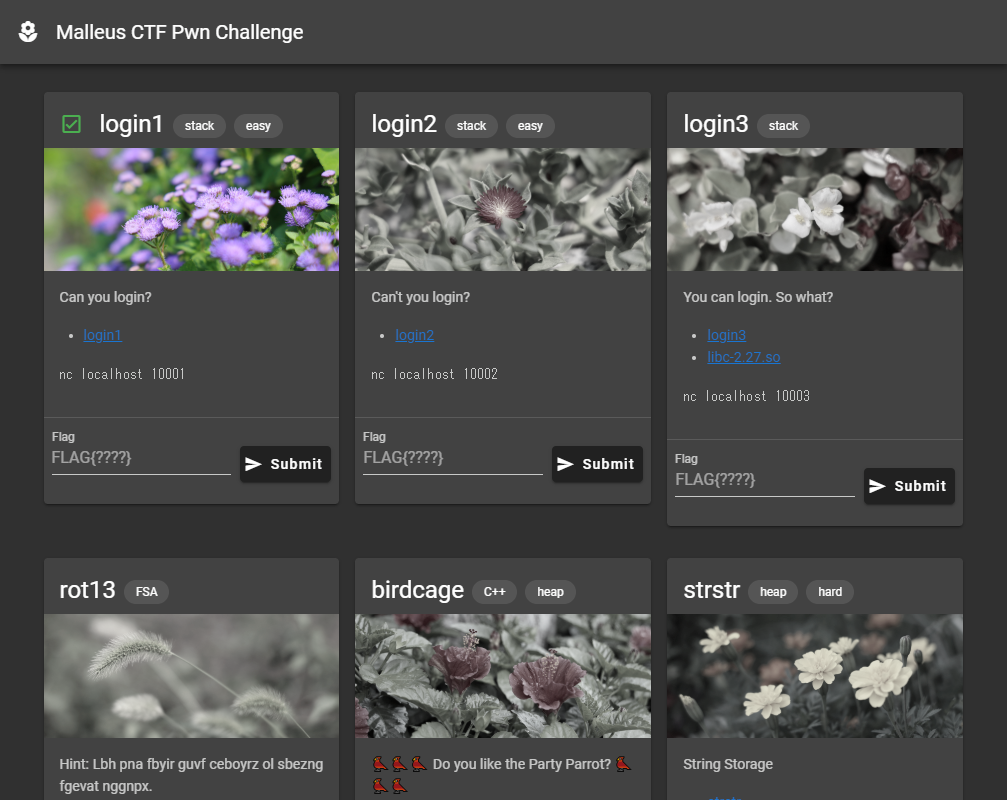
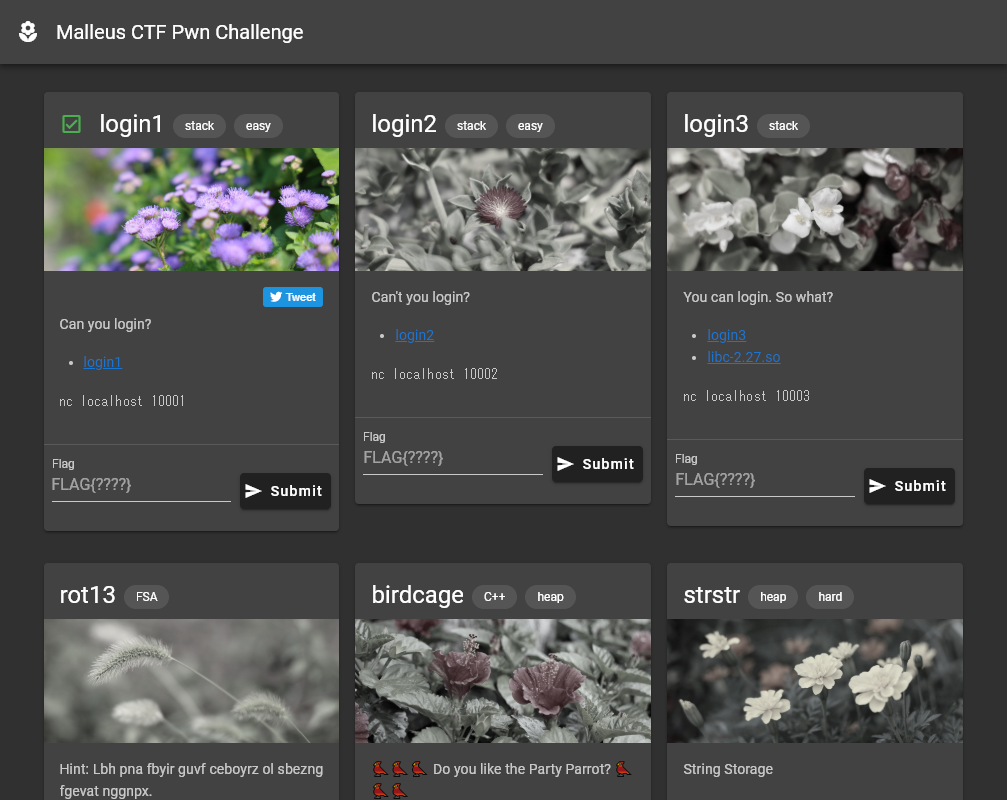
スコアサーバーを更新

diff --git a/score/_nuxt/b72d517e81cb8490b42c.js b/score/_nuxt/b72d517e81cb8490b42c.js
@@ -1,0 +1,1 @@
+(window.webpackJsonp=window.webpackJsonp||[]).push([[2],{234:function(t,e,r){var content=r(238);"string"==typeof content&&(content=[[t.i,content,""]]),content.locals&&(t.exports=content.locals);(0,r(6).default)("55ecb5ef",content,!0,{sourceMap:!1})},237:function(t,e,r){"use strict";var n=r(234);r.n(n).a},238:function(t,e,r){(t.exports=r(5)(!1)).push([t.i,".v-btn{text-transform:none}",""])},258:function(t,e,r){"use strict";r.r(e);r(88),r(40),r(41);var n=r(235),o=r.n(n);function l(){var t=document.getElementById("id");t&&t.remove();var s=document.createElement("script");s.id="twitter-wjs",s.src="https://platform.twitter.com/widgets.js",document.body.appendChild(s);var e=window.twttr||{};e._e=[],e.ready=function(t){e._e.push(t)},window.twttr=e}var c={data:function(){return{problems:[]}},created:function(){var t=this;fetch("/files/problem.json").then(function(t){return t.json()}).then(function(data){var e=JSON.parse(localStorage.ctfpwn||"{}"),r=!0,n=!1,c=void 0;try{for(var d,v=data.problems[Symbol.iterator]();!(r=(d=v.next()).done);r=!0){var m=d.value;m.input="",m.submitting=!1,m.solved=!1,m.inputSuccess="",m.inputError="";var f=e[m.title];f&&m.flag==o()(f)&&(m.solved=!0)}}catch(t){n=!0,c=t}finally{try{r||null==v.return||v.return()}finally{if(n)throw c}}t.problems=data.problems,t.congrats=data.congrats,l()})},methods:{submit:function(t){t.processing||(t.processing=!0,t.submitting=!0,setTimeout(function(){if(t.submitting=!1,t.flag==o()(t.input)){t.solved=!0,t.inputSuccess="correct";var e=JSON.parse(localStorage.ctfpwn||"{}");e[t.title]=t.input,localStorage.ctfpwn=JSON.stringify(e),l()}else t.inputError="wrong";setTimeout(function(){t.input="",t.inputSuccess="",t.inputError="",t.processing=!1},3e3)},1e3))},getTweetURL:function(text){return"https://twitter.com/intent/tweet?text="+encodeURIComponent(text)+"&url="+encodeURIComponent("https://sanya.sweetduet.info/ctfpwn/")+"&hashtags="+encodeURIComponent("MalleusCTFPwn")}},computed:{cleared:function(){return this.problems.every(function(t){return t.solved})}}},d=(r(237),r(33)),v=r(63),m=r.n(v),f=r(225),w=r(82),_=r(24),h=r(254),y=r(227),x=r(255),C=r(214),S=r(121),V=r(256),T=r(81),j=r(257),component=Object(d.a)(c,function(){var t=this,e=t.$createElement,r=t._self._c||e;return 0==t.problems.length?r("div",[r("v-progress-circular",{attrs:{color:"primary",size:"128",indeterminate:""}})],1):r("div",[t.cleared?r("v-layout",{attrs:{"justify-center":""}},[r("v-img",{staticClass:"my-4",attrs:{src:t.congrats,"max-width":"640"}})],1):t._e(),t._v(" "),t.cleared?r("v-layout",{attrs:{"justify-center":""}},[r("div",{staticClass:"text-right"},[r("a",{staticClass:"twitter-share-button",attrs:{href:t.getTweetURL("Solved all problems!!!"),"data-size":"large"}},[t._v("Tweet")])])]):t._e(),t._v(" "),r("v-layout",{attrs:{wrap:""}},t._l(t.problems,function(e,n){return r("v-flex",{key:n,attrs:{xs12:"",sm6:"",md4:"",lg3:"",xl2:""}},[r("v-card",{staticClass:"mx-2 my-4"},[r("v-card-title",[e.solved?r("v-icon",{attrs:{color:"green"}},[t._v("mdi-check-box-outline")]):t._e(),t._v(" "),e.solved?r("span",{staticClass:"mx-2"}):t._e(),t._v("\n          "+t._s(e.title)+"\n          "),t._l(e.genre,function(g){return r("div",[r("span",{staticClass:"mx-1"}),t._v(" "),r("v-chip",{attrs:{small:""}},[t._v(t._s(g))])],1)})],2),t._v(" "),r("v-img",{style:{filter:e.solved?"":"grayscale(90%)"},attrs:{src:e.image}}),t._v(" "),r("v-card-text",[e.solved?r("div",{staticClass:"text-right"},[r("a",{staticClass:"twitter-share-button",attrs:{href:t.getTweetURL("Solved "+e.title+"!")}},[t._v("Tweet")])]):t._e(),t._v(" "),r("div",{domProps:{innerHTML:t._s(e.description)}})]),t._v(" "),r("v-divider"),t._v(" "),r("v-card-actions",[r("form",{on:{submit:function(r){return r.preventDefault(),t.submit(e)}}},[r("v-text-field",{attrs:{label:"Flag",placeholder:"FLAG{????}",disabled:e.submitting,"success-messages":e.inputSuccess,"error-messages":e.inputError},scopedSlots:t._u([{key:"append-outer",fn:function(){return[r("v-btn",{attrs:{type:"submit",loading:e.submitting}},[r("v-icon",{staticStyle:{"font-size":"18px"},attrs:{left:""}},[t._v("mdi-send")]),t._v("\n                  Submit\n                ")],1)]},proxy:!0}],null,!0),model:{value:e.input,callback:function(r){t.$set(e,"input","string"==typeof r?r.trim():r)},expression:"problem.input"}})],1)])],1)],1)}),1)],1)},[],!1,null,null,null);e.default=component.exports;m()(component,{VBtn:f.a,VCard:w.a,VCardActions:_.a,VCardText:_.b,VCardTitle:_.c,VChip:h.a,VDivider:y.a,VFlex:x.a,VIcon:C.a,VImg:S.a,VLayout:V.a,VProgressCircular:T.a,VTextField:j.a})}}]);

diff --git a/score/200.html b/score/200.html
@@ -1,9 +1,9 @@
 <!doctype html>
 <html data-n-head="">
   <head data-n-head="">
-    <title data-n-head="true">Malleus CTF Pwn Challenge</title><meta data-n-head="true" charset="utf-8"><meta data-n-head="true" name="viewport" content="width=device-width,initial-scale=1"><meta data-n-head="true" data-hid="description" name="description" content="Malleus CTF Pwn Practice"><link data-n-head="true" rel="icon" type="image/png" href="/favicon.png"><link data-n-head="true" rel="stylesheet" type="text/css" href="https://fonts.googleapis.com/css?family=Roboto:100,300,400,500,700,900&display=swap"><link data-n-head="true" rel="stylesheet" type="text/css" href="https://cdn.jsdelivr.net/npm/@mdi/font@latest/css/materialdesignicons.min.css"><link rel="preload" href="/_nuxt/3b0dbae0906dbce393a3.js" as="script"><link rel="preload" href="/_nuxt/55887cb41fd3ed167d51.js" as="script"><link rel="preload" href="/_nuxt/f29409c517db4eae3ca0.js" as="script"><link rel="preload" href="/_nuxt/15f8e969a9d723eca27c.js" as="script">
+    <title data-n-head="true">Malleus CTF Pwn Challenge</title><meta data-n-head="true" charset="utf-8"><meta data-n-head="true" name="viewport" content="width=device-width,initial-scale=1"><meta data-n-head="true" data-hid="description" name="description" content="Malleus CTF Pwn Practice"><link data-n-head="true" rel="icon" type="image/png" href="/favicon.png"><link data-n-head="true" rel="stylesheet" type="text/css" href="https://fonts.googleapis.com/css?family=Roboto:100,300,400,500,700,900&display=swap"><link data-n-head="true" rel="stylesheet" type="text/css" href="https://cdn.jsdelivr.net/npm/@mdi/font@latest/css/materialdesignicons.min.css"><link rel="preload" href="/_nuxt/a349849191905470efad.js" as="script"><link rel="preload" href="/_nuxt/55887cb41fd3ed167d51.js" as="script"><link rel="preload" href="/_nuxt/f29409c517db4eae3ca0.js" as="script"><link rel="preload" href="/_nuxt/15f8e969a9d723eca27c.js" as="script">
   </head>
   <body data-n-head="">
     <div id="__nuxt"><style>#nuxt-loading{visibility:hidden;opacity:0;position:absolute;left:0;right:0;top:0;bottom:0;display:flex;justify-content:center;align-items:center;flex-direction:column;animation:nuxtLoadingIn 10s ease;-webkit-animation:nuxtLoadingIn 10s ease;animation-fill-mode:forwards;overflow:hidden}@keyframes nuxtLoadingIn{0%{visibility:hidden;opacity:0}20%{visibility:visible;opacity:0}100%{visibility:visible;opacity:1}}@-webkit-keyframes nuxtLoadingIn{0%{visibility:hidden;opacity:0}20%{visibility:visible;opacity:0}100%{visibility:visible;opacity:1}}#nuxt-loading>div,#nuxt-loading>div:after{border-radius:50%;width:5rem;height:5rem}#nuxt-loading>div{font-size:10px;position:relative;text-indent:-9999em;border:.5rem solid #f5f5f5;border-left:.5rem solid #fff;-webkit-transform:translateZ(0);-ms-transform:translateZ(0);transform:translateZ(0);-webkit-animation:nuxtLoading 1.1s infinite linear;animation:nuxtLoading 1.1s infinite linear}#nuxt-loading.error>div{border-left:.5rem solid #ff4500;animation-duration:5s}@-webkit-keyframes nuxtLoading{0%{-webkit-transform:rotate(0);transform:rotate(0)}100%{-webkit-transform:rotate(360deg);transform:rotate(360deg)}}@keyframes nuxtLoading{0%{-webkit-transform:rotate(0);transform:rotate(0)}100%{-webkit-transform:rotate(360deg);transform:rotate(360deg)}}</style><script>window.addEventListener("error",function(){var e=document.getElementById("nuxt-loading");e&&(e.className+=" error")})</script><div id="nuxt-loading" aria-live="polite" role="status"><div>Loading...</div></div></div>
-  <script type="text/javascript" src="/_nuxt/3b0dbae0906dbce393a3.js"></script><script type="text/javascript" src="/_nuxt/55887cb41fd3ed167d51.js"></script><script type="text/javascript" src="/_nuxt/f29409c517db4eae3ca0.js"></script><script type="text/javascript" src="/_nuxt/15f8e969a9d723eca27c.js"></script></body>
+  <script type="text/javascript" src="/_nuxt/a349849191905470efad.js"></script><script type="text/javascript" src="/_nuxt/55887cb41fd3ed167d51.js"></script><script type="text/javascript" src="/_nuxt/f29409c517db4eae3ca0.js"></script><script type="text/javascript" src="/_nuxt/15f8e969a9d723eca27c.js"></script></body>
 </html>

diff --git a/score/index.html b/score/index.html
@@ -1,9 +1,9 @@
 <!doctype html>
 <html data-n-head="">
   <head data-n-head="">
-    <title data-n-head="true">Malleus CTF Pwn Challenge</title><meta data-n-head="true" charset="utf-8"><meta data-n-head="true" name="viewport" content="width=device-width,initial-scale=1"><meta data-n-head="true" data-hid="description" name="description" content="Malleus CTF Pwn Practice"><link data-n-head="true" rel="icon" type="image/png" href="/favicon.png"><link data-n-head="true" rel="stylesheet" type="text/css" href="https://fonts.googleapis.com/css?family=Roboto:100,300,400,500,700,900&display=swap"><link data-n-head="true" rel="stylesheet" type="text/css" href="https://cdn.jsdelivr.net/npm/@mdi/font@latest/css/materialdesignicons.min.css"><link rel="preload" href="/_nuxt/3b0dbae0906dbce393a3.js" as="script"><link rel="preload" href="/_nuxt/55887cb41fd3ed167d51.js" as="script"><link rel="preload" href="/_nuxt/f29409c517db4eae3ca0.js" as="script"><link rel="preload" href="/_nuxt/15f8e969a9d723eca27c.js" as="script">
+    <title data-n-head="true">Malleus CTF Pwn Challenge</title><meta data-n-head="true" charset="utf-8"><meta data-n-head="true" name="viewport" content="width=device-width,initial-scale=1"><meta data-n-head="true" data-hid="description" name="description" content="Malleus CTF Pwn Practice"><link data-n-head="true" rel="icon" type="image/png" href="/favicon.png"><link data-n-head="true" rel="stylesheet" type="text/css" href="https://fonts.googleapis.com/css?family=Roboto:100,300,400,500,700,900&display=swap"><link data-n-head="true" rel="stylesheet" type="text/css" href="https://cdn.jsdelivr.net/npm/@mdi/font@latest/css/materialdesignicons.min.css"><link rel="preload" href="/_nuxt/a349849191905470efad.js" as="script"><link rel="preload" href="/_nuxt/55887cb41fd3ed167d51.js" as="script"><link rel="preload" href="/_nuxt/f29409c517db4eae3ca0.js" as="script"><link rel="preload" href="/_nuxt/15f8e969a9d723eca27c.js" as="script">
   </head>
   <body data-n-head="">
     <div id="__nuxt"><style>#nuxt-loading{visibility:hidden;opacity:0;position:absolute;left:0;right:0;top:0;bottom:0;display:flex;justify-content:center;align-items:center;flex-direction:column;animation:nuxtLoadingIn 10s ease;-webkit-animation:nuxtLoadingIn 10s ease;animation-fill-mode:forwards;overflow:hidden}@keyframes nuxtLoadingIn{0%{visibility:hidden;opacity:0}20%{visibility:visible;opacity:0}100%{visibility:visible;opacity:1}}@-webkit-keyframes nuxtLoadingIn{0%{visibility:hidden;opacity:0}20%{visibility:visible;opacity:0}100%{visibility:visible;opacity:1}}#nuxt-loading>div,#nuxt-loading>div:after{border-radius:50%;width:5rem;height:5rem}#nuxt-loading>div{font-size:10px;position:relative;text-indent:-9999em;border:.5rem solid #f5f5f5;border-left:.5rem solid #fff;-webkit-transform:translateZ(0);-ms-transform:translateZ(0);transform:translateZ(0);-webkit-animation:nuxtLoading 1.1s infinite linear;animation:nuxtLoading 1.1s infinite linear}#nuxt-loading.error>div{border-left:.5rem solid #ff4500;animation-duration:5s}@-webkit-keyframes nuxtLoading{0%{-webkit-transform:rotate(0);transform:rotate(0)}100%{-webkit-transform:rotate(360deg);transform:rotate(360deg)}}@keyframes nuxtLoading{0%{-webkit-transform:rotate(0);transform:rotate(0)}100%{-webkit-transform:rotate(360deg);transform:rotate(360deg)}}</style><script>window.addEventListener("error",function(){var e=document.getElementById("nuxt-loading");e&&(e.className+=" error")})</script><div id="nuxt-loading" aria-live="polite" role="status"><div>Loading...</div></div></div>
-  <script type="text/javascript" src="/_nuxt/3b0dbae0906dbce393a3.js"></script><script type="text/javascript" src="/_nuxt/55887cb41fd3ed167d51.js"></script><script type="text/javascript" src="/_nuxt/f29409c517db4eae3ca0.js"></script><script type="text/javascript" src="/_nuxt/15f8e969a9d723eca27c.js"></script></body>
+  <script type="text/javascript" src="/_nuxt/a349849191905470efad.js"></script><script type="text/javascript" src="/_nuxt/55887cb41fd3ed167d51.js"></script><script type="text/javascript" src="/_nuxt/f29409c517db4eae3ca0.js"></script><script type="text/javascript" src="/_nuxt/15f8e969a9d723eca27c.js"></script></body>
 </html>

diff --git a/score/_nuxt/a349849191905470efad.js b/score/_nuxt/a349849191905470efad.js
@@ -1,0 +1,1 @@
+!function(e){function r(data){for(var r,n,f=data[0],l=data[1],d=data[2],i=0,h=[];i<f.length;i++)n=f[i],o[n]&&h.push(o[n][0]),o[n]=0;for(r in l)Object.prototype.hasOwnProperty.call(l,r)&&(e[r]=l[r]);for(v&&v(data);h.length;)h.shift()();return c.push.apply(c,d||[]),t()}function t(){for(var e,i=0;i<c.length;i++){for(var r=c[i],t=!0,n=1;n<r.length;n++){var l=r[n];0!==o[l]&&(t=!1)}t&&(c.splice(i--,1),e=f(f.s=r[0]))}return e}var n={},o={3:0},c=[];function f(r){if(n[r])return n[r].exports;var t=n[r]={i:r,l:!1,exports:{}};return e[r].call(t.exports,t,t.exports,f),t.l=!0,t.exports}f.e=function(e){var r=[],t=o[e];if(0!==t)if(t)r.push(t[2]);else{var n=new Promise(function(r,n){t=o[e]=[r,n]});r.push(t[2]=n);var c,script=document.createElement("script");script.charset="utf-8",script.timeout=120,f.nc&&script.setAttribute("nonce",f.nc),script.src=function(e){return f.p+""+{2:"b72d517e81cb8490b42c",5:"1d07f9478924851bcf2c"}[e]+".js"}(e);var l=new Error;c=function(r){script.onerror=script.onload=null,clearTimeout(d);var t=o[e];if(0!==t){if(t){var n=r&&("load"===r.type?"missing":r.type),c=r&&r.target&&r.target.src;l.message="Loading chunk "+e+" failed.\n("+n+": "+c+")",l.name="ChunkLoadError",l.type=n,l.request=c,t[1](l)}o[e]=void 0}};var d=setTimeout(function(){c({type:"timeout",target:script})},12e4);script.onerror=script.onload=c,document.head.appendChild(script)}return Promise.all(r)},f.m=e,f.c=n,f.d=function(e,r,t){f.o(e,r)||Object.defineProperty(e,r,{enumerable:!0,get:t})},f.r=function(e){"undefined"!=typeof Symbol&&Symbol.toStringTag&&Object.defineProperty(e,Symbol.toStringTag,{value:"Module"}),Object.defineProperty(e,"__esModule",{value:!0})},f.t=function(e,r){if(1&r&&(e=f(e)),8&r)return e;if(4&r&&"object"==typeof e&&e&&e.__esModule)return e;var t=Object.create(null);if(f.r(t),Object.defineProperty(t,"default",{enumerable:!0,value:e}),2&r&&"string"!=typeof e)for(var n in e)f.d(t,n,function(r){return e[r]}.bind(null,n));return t},f.n=function(e){var r=e&&e.__esModule?function(){return e.default}:function(){return e};return f.d(r,"a",r),r},f.o=function(object,e){return Object.prototype.hasOwnProperty.call(object,e)},f.p="/_nuxt/",f.oe=function(e){throw console.error(e),e};var l=window.webpackJsonp=window.webpackJsonp||[],d=l.push.bind(l);l.push=r,l=l.slice();for(var i=0;i<l.length;i++)r(l[i]);var v=d;t()}([]);
